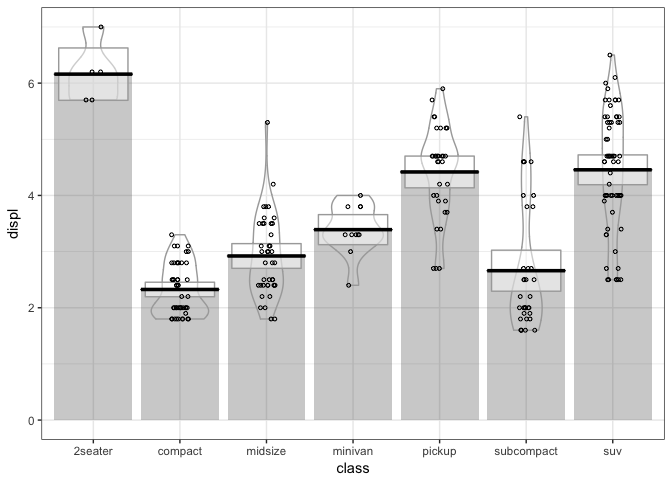
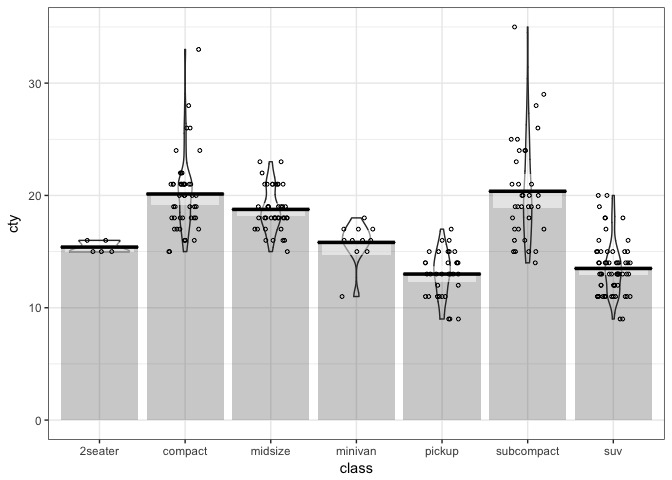
add arguments for specifying layer parameters #3

diff --git a/README.md b/README.md
@@ -3,7 +3,7 @@
 ggpirate
 ========
 
-A [pirate plot](https://cran.r-project.org/web/packages/yarrr/vignettes/pirateplot.html) is a way of displaying data where a continuous dependent variable is a function of a categorical independent variable, in a more informative way than the traditional barplot. `geom_pirate()` plots the raw data as points (using `ggplot2::geom_jitter()`), along with layers showing descriptive and inferential statistics -- bars indicating means (using `ggplot2::geom_col()`), horizontal line indicating means (using `ggplot2::geom_crossbar()`), boxes indicating 95% confidence intervals assuming a normal sampling distribution (using `ggplot2::geom_rect()`), and violins indicating the density (using `ggplot2::geom_violin()`).
+A [pirate plot](https://cran.r-project.org/web/packages/yarrr/vignettes/pirateplot.html) is a way of displaying data where a continuous dependent variable is a function of a categorical independent variable, in a more informative way than the traditional barplot. `geom_pirate()` plots the raw data as points (using `ggplot2::geom_jitter()`), along with layers showing descriptive and inferential statistics -- bars indicating means (using `ggplot2::geom_col()`), horizontal line indicating means (using `ggplot2::geom_crossbar()`), boxes indicating 95% confidence intervals assuming a normal sampling distribution (using `ggplot2::geom_tile()`), and violins indicating the density (using `ggplot2::geom_violin()`).
 
 Installation
 ------------
@@ -26,17 +26,66 @@ theme_set(theme_bw())
 Colour pirate plot:
 
 ``` r
-ggplot(mpg, aes(x = class, y = displ)) +
-  geom_pirate(aes(colour = class, fill = class))
+ggplot(mpg, aes(x = class, y = cty)) +
+  geom_pirate(aes(colour = class))
 ```
 
 ![](README-colour-1.png)
 
-Black and white pirate plot:
+    #> $na.rm
+    #> [1] FALSE
+
+Each of the layers can be turned off, e.g. for just means and confidence intervals:
 
 ``` r
-ggplot(mpg, aes(x = class, y = displ)) +
-  geom_pirate()
+ggplot(mpg, aes(x = class, y = cty)) +
+  geom_pirate(aes(colour = class), points = FALSE, bars = FALSE, violins = FALSE)
 ```
 
-![](README-bw-1.png)
+![](README-layers-1.png)
+
+    #> $na.rm
+    #> [1] FALSE
+
+Colour can be mapped to a different variable than the x axis, resulting in dodged subgroups:
+
+``` r
+mpg2 <- dplyr::mutate(mpg, drv = factor(drv))
+
+ggplot(mpg2, aes(x = class, y = cty)) +
+  geom_pirate(aes(colour = drv), show.legend = TRUE)
+```
+
+![](README-dodge-1.png)
+
+    #> $na.rm
+    #> [1] FALSE
+
+And it plays well with facetting:
+
+``` r
+mpg_gather <- tidyr::gather(mpg, type, mileage, cty, hwy)
+
+ggplot(mpg_gather, aes(x = class, y = mileage)) +
+  facet_wrap(~type) +
+  geom_pirate(aes(colour = class))
+```
+
+![](README-facets-1.png)
+
+    #> $na.rm
+    #> [1] FALSE
+
+Finally, the parameters passed to any of the layers can be adjusted, e.g.:
+
+``` r
+ggplot(mpg, aes(x = class, y = cty)) +
+  geom_pirate(aes(colour = class), bars = FALSE,
+              points_params = list(shape = 19, alpha = 0.2),
+              lines_params = list(size = 0.8))
+```
+
+![](README-unnamed-chunk-2-1.png)
+
+    #> $na.rm
+    #> [1] FALSE
